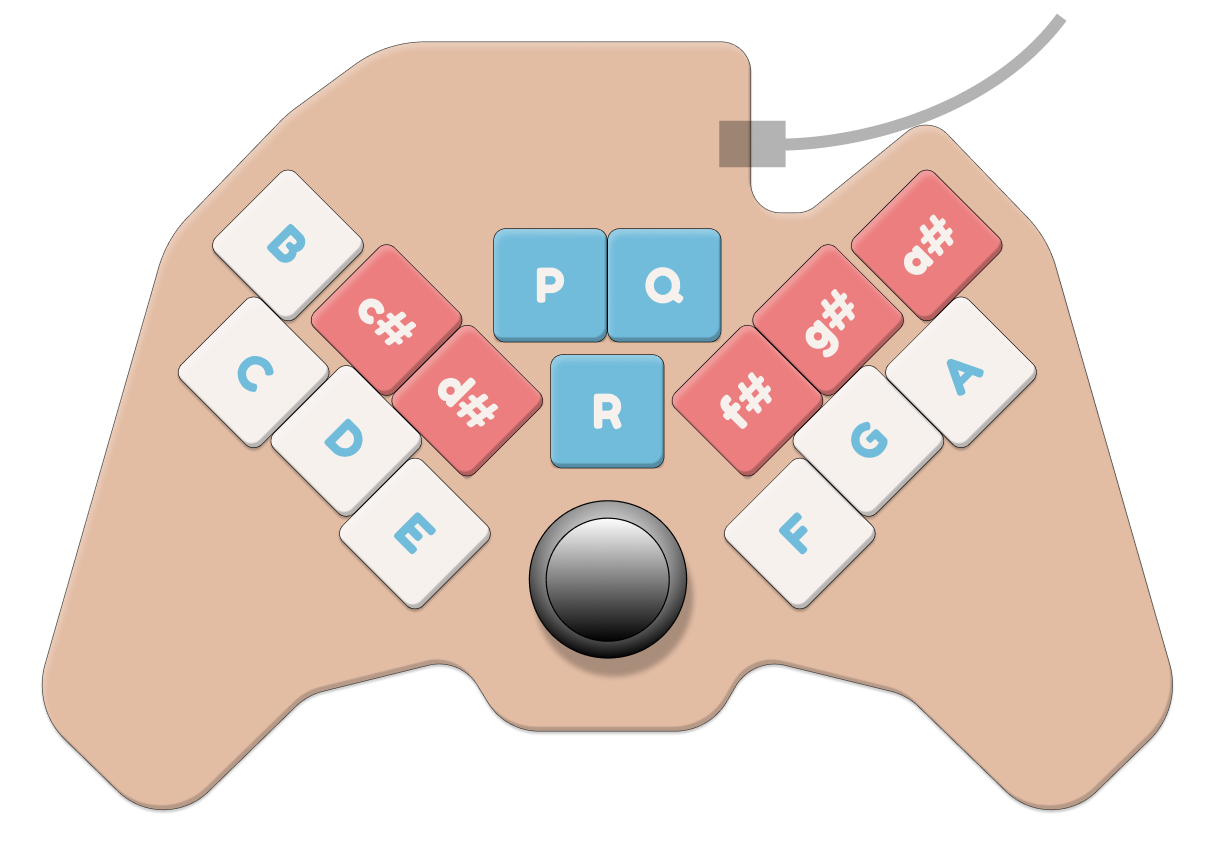
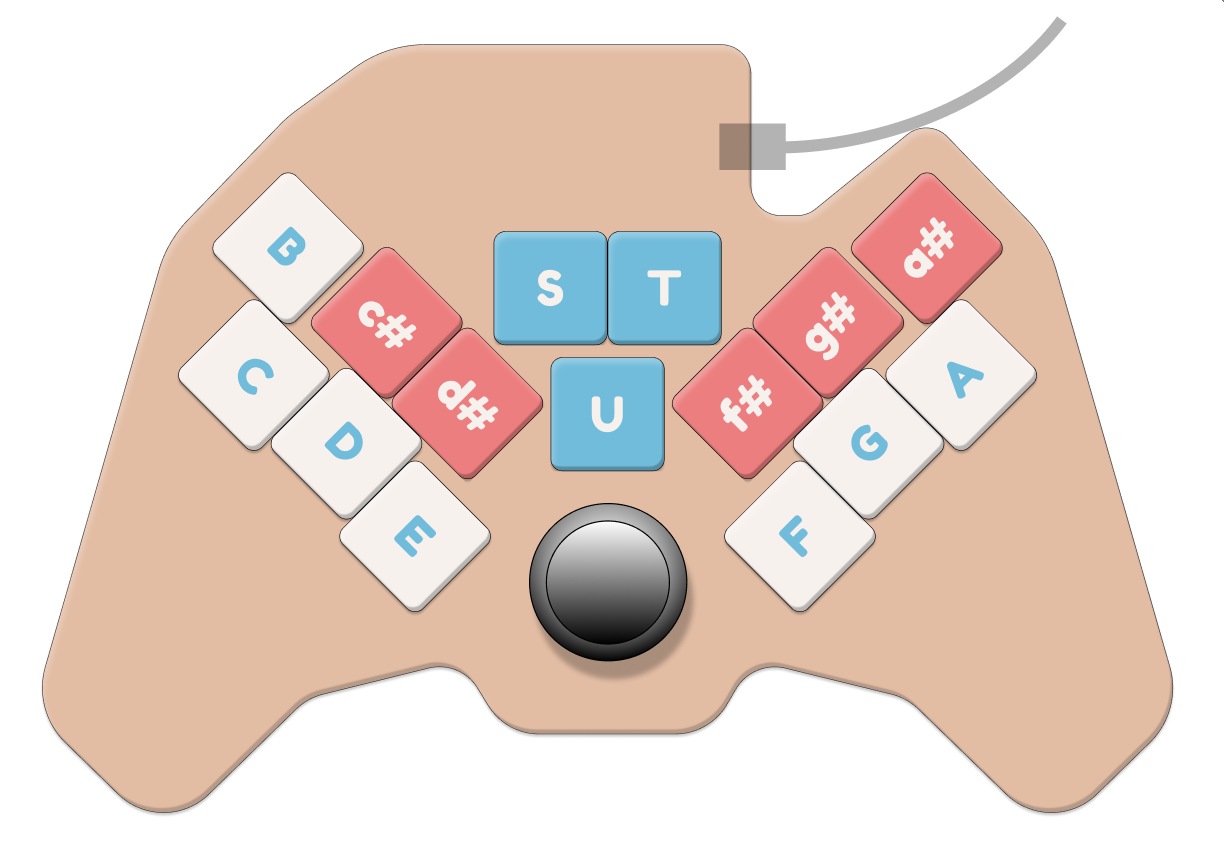
update pins in code to match diagram

diff --git a/README.md b/README.md
@@ -8,17 +8,42 @@ A MIDI controller in the shape of a video game controller (e.g. xbox), but using
 
 Hold it like an Xbox controller.  Play it like a kalimba, with your thumbs.
 
-The diagonal keys are notes; the 3 keys in the middle are extra function keys.  The joystick is for pitch bends, etc.
+The diagonal keys are notes; the 3 keys in the middle are extra function keys.  The joystick is for pitch bends.
+
+### Musical notes
 
 Unlike a kalimba, the notes are arranged piano style.  There's one octave starting at B on the left and ascending to Bb on the right.  Like a piano, white keys are on the bottom row and black keys are on the top row (except for B).
 
-The special middle keys P, Q, and R have not been assigned to functions yet.  One will be a Shift key which accesses hidden features in the other keys such as transposing, changing MIDI channels, changing system volume, etc.  TODO.
+Because we use Shepard Tones (more below), you can play a melody so that it wraps off one side of the keyboard and back onto the other side, without noticing a jump in octaves.
+
+### Special keys
+
+The middle keys S, T, and U are for special purposes.  Currently:
+
+* S is volume down (like a multimedia keyboard -- controlling the computer volume)
+* T is volume up
+* U is a SHIFT key
+    * SHIFT - B toggles between MIDI channel 0 and 1
+    * SHIFT + a white key tranposes the keyboard to different octaves.  F gets you the default octave.
+
+...but check the [source code](https://github.com/cinnamon-bun/thumble/blob/main/thumble_001_arduino/thumble_001_arduino.ino#L97-L102) for the latest changes to the special keys.
+
+The middle keys could possibly do other things like:
+* play specific MIDI pitches where drum sounds can be set up, that would ignore the transpose settings and pitch bends.
+
+### Joystick
+
+The joystick is not programmed yet (TODO), but it will do pitch bends.  Left/right will bend by a half step, and up/down will bend by a whole step.
+
+It could also act as a mod wheel on one axis and a pitch bend on the other axis.
 
 ## Shepard Tones
 
 There's only room for 12 notes, but wouldn't it be nice if you could wrap around the edge when playing a melody without jumping an octave?
 
 We use an auditory illusion called [Shepard Tones](https://en.wikipedia.org/wiki/Shepard_tone) to make this possible.  Each key actually plays several octaves of that note at the same time, but with louder notes in the middle octaves, to maintain the loudest note in the same octave despite the illusion of constantly ascending tones.
+
+As you go up, the higher octaves fade away and the lower octaves fade in to take their place, until you wrap around seamlessly.
 
 For example:
 * C plays C1 at 50% and C2 at 50% volume.
